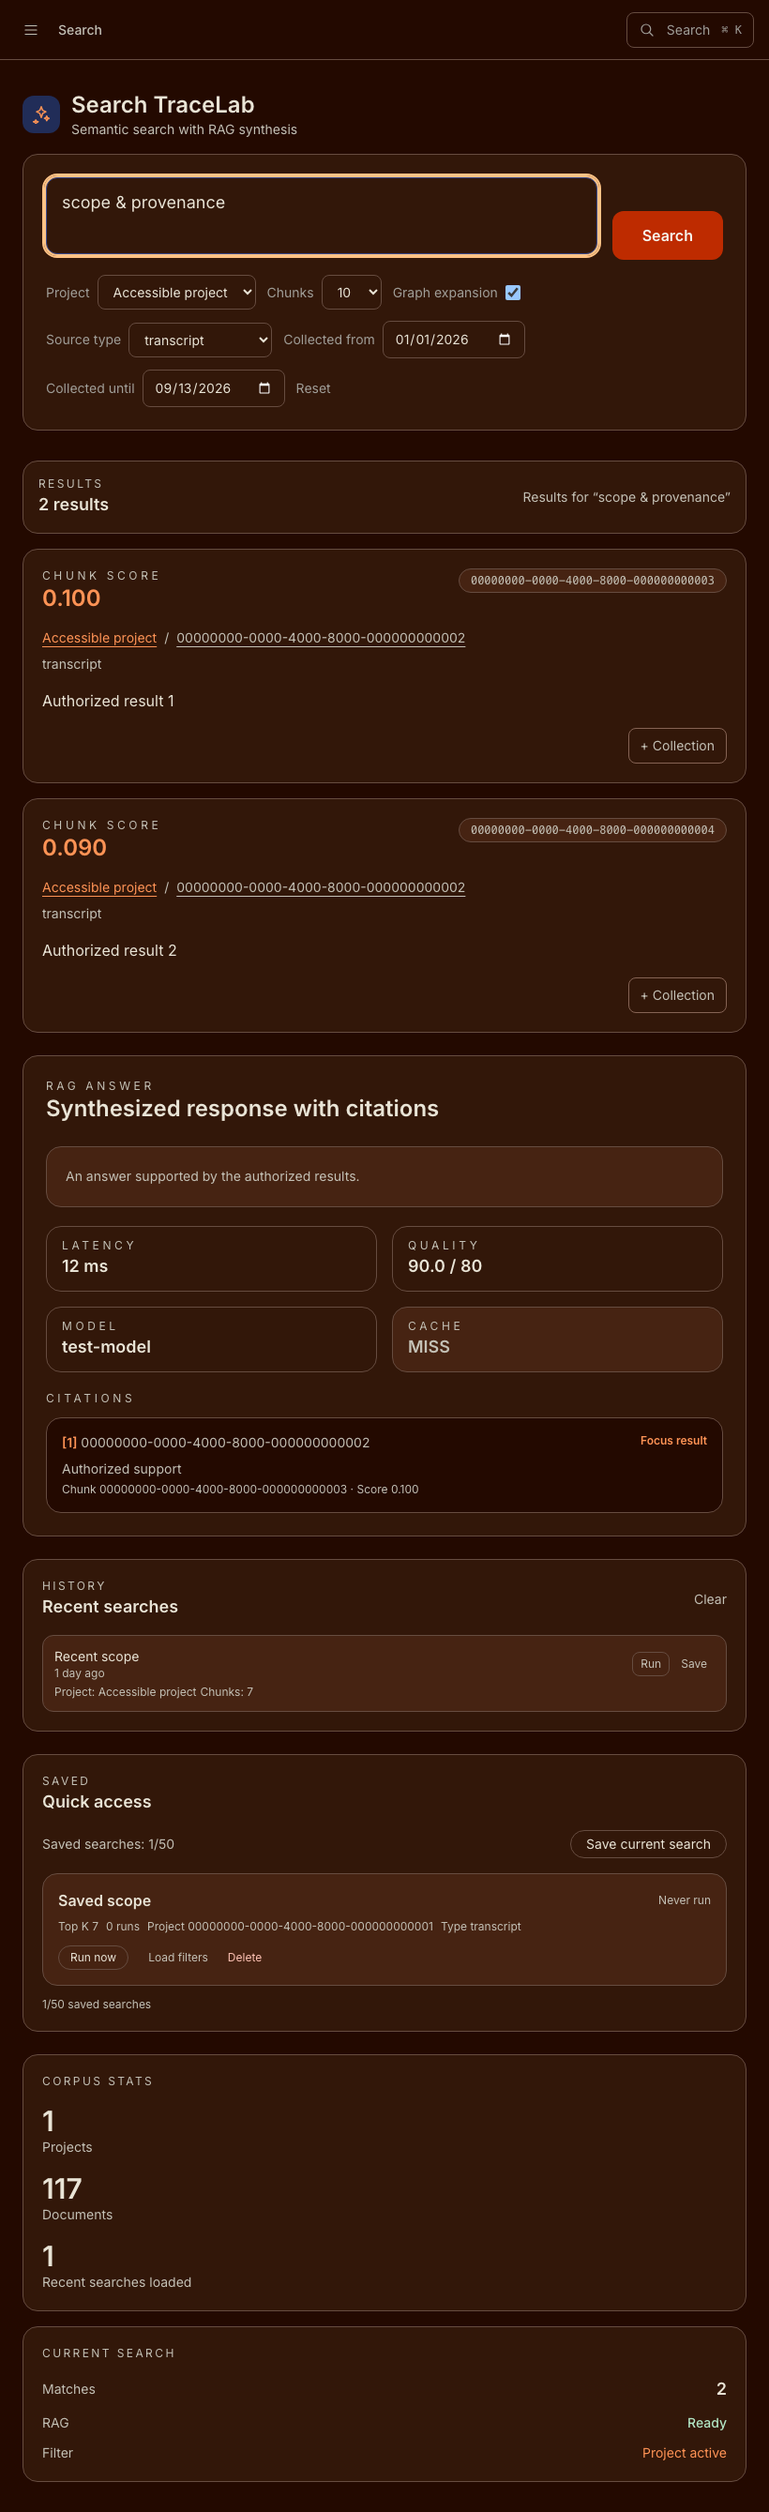
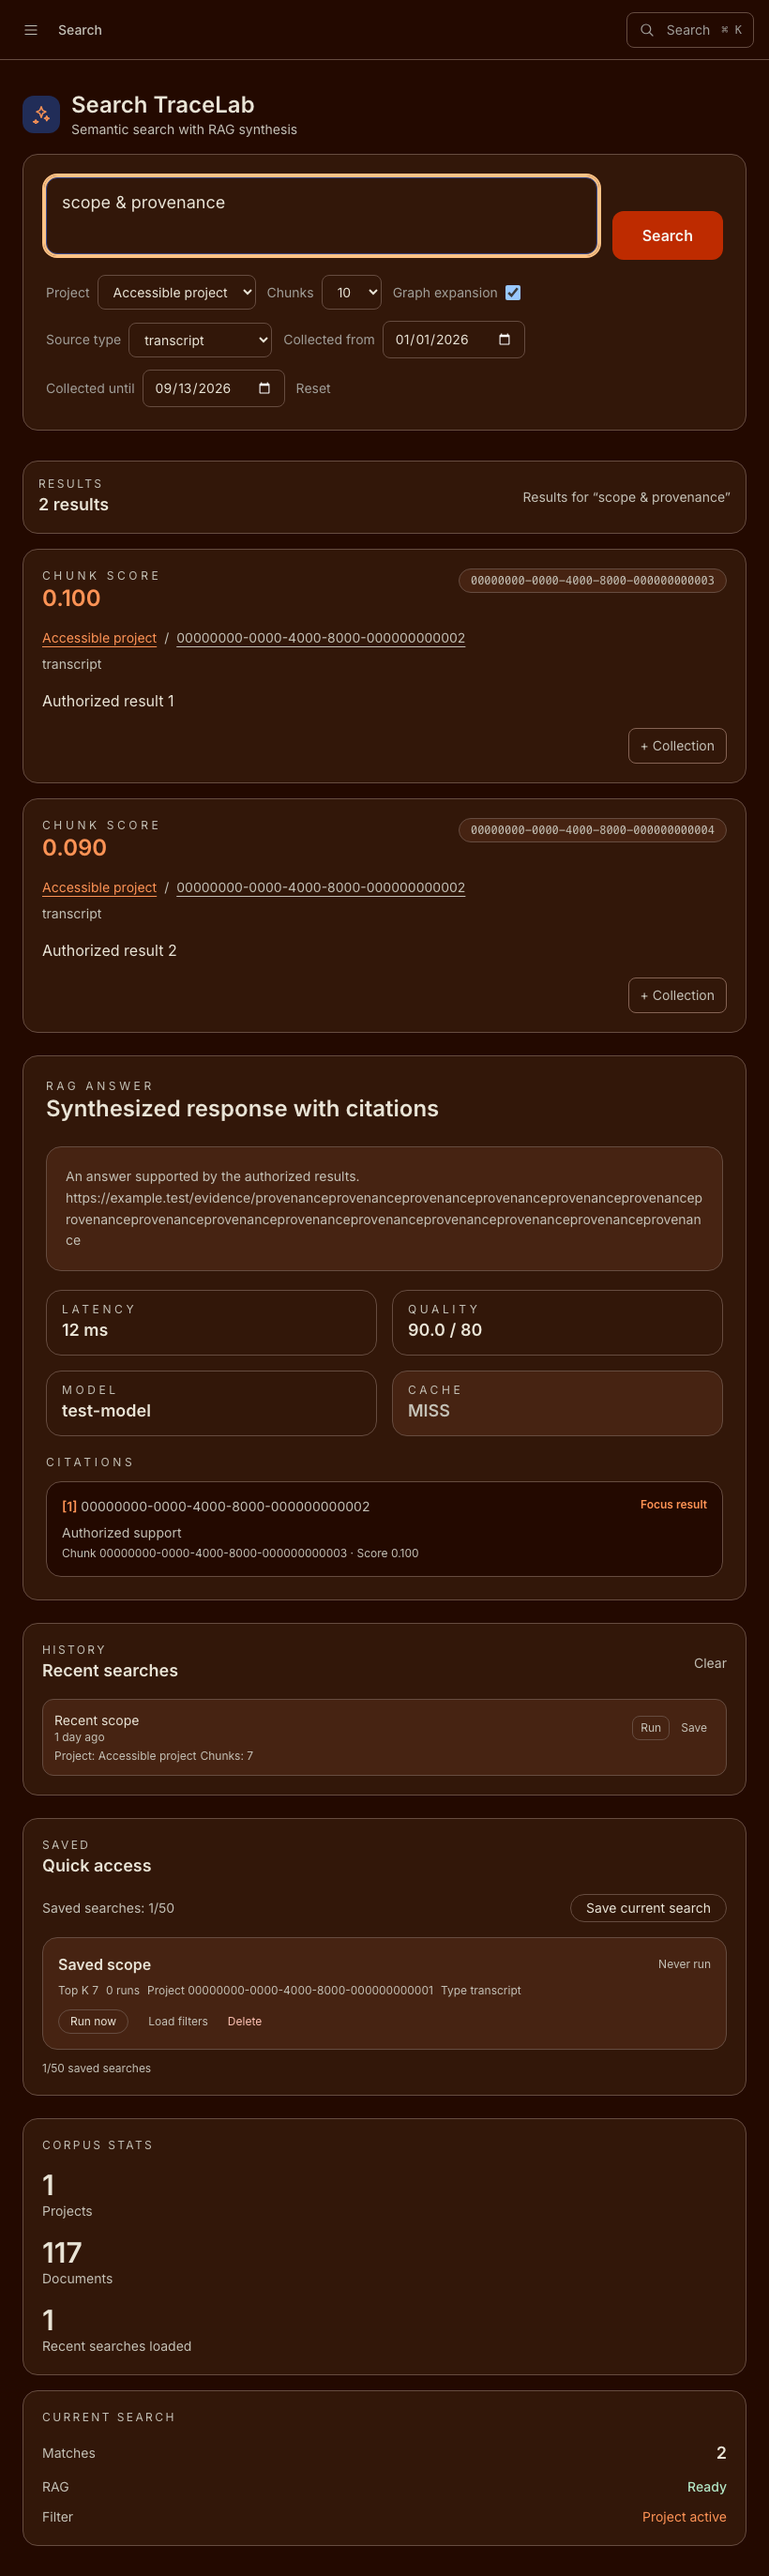
UX-9: keep keyboard help reachable within the native focus loop

diff --git a/frontend/tests/e2e/search-command.spec.ts b/frontend/tests/e2e/search-command.spec.ts
@@ -7,7 +7,7 @@ const chunkIds = ["00000000-0000-4000-8000-000000000003", "00000000-0000-4000-80
 const kinds = ["project", "document", "mission", "report", "collection", "evidence"];
 const entityPath = (kind: string) => `/${kind === "evidence" ? "evidence" : `${kind}s`}/${projectId}`;
 const results = chunkIds.map((chunk_id, index) => ({ chunk_id, document_id: documentId, project_id: projectId, content: `Authorized result ${index + 1}`, source_type: "transcript", rrf_score: 0.1 - index * 0.01, score: 0.1, chunk_index: index }));
-const rag = { answer: "An answer supported by the authorized results.", citations: [{ chunk_id: chunkIds[0], document_id: documentId, snippet: "Authorized support", score: 0.1 }], sources: [], latency_ms: 12, quality: { composite_score: 0.9, threshold: 0.8 }, routing: { selected_model: "test-model" }, cache: { hit: false } };
+const rag = { answer: "An answer supported by the authorized results. https://example.test/evidence/" + "provenance".repeat(15), citations: [{ chunk_id: chunkIds[0], document_id: documentId, snippet: "Authorized support", score: 0.1 }], sources: [], latency_ms: 12, quality: { composite_score: 0.9, threshold: 0.8 }, routing: { selected_model: "test-model" }, cache: { hit: false } };
 const entry = { id: projectId, name: "Saved scope", query_text: "saved scope", filters: { project_id: projectId, source_type: "transcript" }, top_k: 7, search_mode: "semantic", owner: "member", use_count: 0, created_at: "2026-09-13T00:00:00Z", updated_at: "2026-09-13T00:00:00Z" };
 
 async function fixture(page: Page) {
@@ -86,7 +86,9 @@ for (const theme of ["light", "dark"] as const) {
       await expect(dialog.getByRole("button", { name: "evidence named result", exact: true })).toBeFocused();
       await page.keyboard.press("Home");
       await expect(dialog.getByRole("button", { name: "project named result", exact: true })).toBeFocused();
-      await dialog.getByText("Keyboard help", { exact: true }).focus();
+      await page.keyboard.press("End");
+      await page.keyboard.press("Tab");
+      await expect(dialog.getByText("Keyboard help", { exact: true })).toBeFocused();
       await page.keyboard.press("Enter");
       await expect(dialog.getByText(/Escape closes this dialog and restores focus/)).toBeVisible();
       await audit(page, `palette-${theme}-${width}`);

diff --git a/frontend/src/components/CommandPalette.tsx b/frontend/src/components/CommandPalette.tsx
@@ -99,6 +99,6 @@ export function CommandPalette() {
       {!term && <section aria-label="Actions" className="py-2"><h3 className="px-3 py-2 text-xs text-muted">Actions</h3><button type="button" data-command-item className={commandClass} onClick={() => go("/missions/new")}>New mission</button><button type="button" data-command-item className={commandClass} onClick={() => go("/documents/upload")}>Upload documents</button></section>}
       {items.length > 0 && <section aria-label="Go to" className="py-2"><h3 className="px-3 py-2 text-xs text-muted">Go to</h3>{items.map(item => <button key={item.href} type="button" data-command-item className="app-nav-link w-full text-left" onClick={() => go(item.href)}><NavigationIcon name={item.icon} />{item.label}</button>)}</section>}
     </div>
-    <details className="border-t border-line px-5 py-3 text-xs text-secondary"><summary className="cursor-pointer font-medium">Keyboard help</summary><p className="mt-2">Cmd-K or Ctrl-K opens search. Type a name, then use Up/Down to focus objects and actions. Home/End moves to the first/last result when a result is focused. Enter opens the focused item; Enter in the query searches research. Tab reaches every control. Escape closes this dialog and restores focus to its opener.</p></details>
+    <details className="border-t border-line px-5 py-3 text-xs text-secondary"><summary tabIndex={0} className="cursor-pointer font-medium">Keyboard help</summary><p className="mt-2">Cmd-K or Ctrl-K opens search. Type a name, then use Up/Down to focus objects and actions. Home/End moves to the first/last result when a result is focused. Enter opens the focused item; Enter in the query searches research. Tab reaches every control. Escape closes this dialog and restores focus to its opener.</p></details>
   </dialog>;
 }
